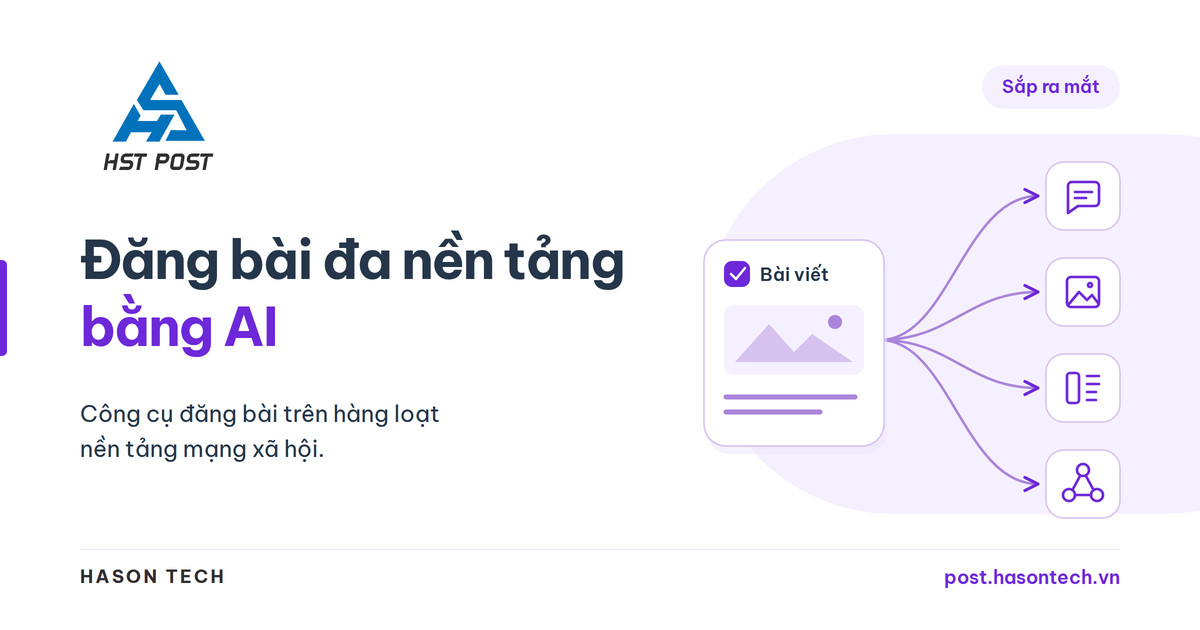
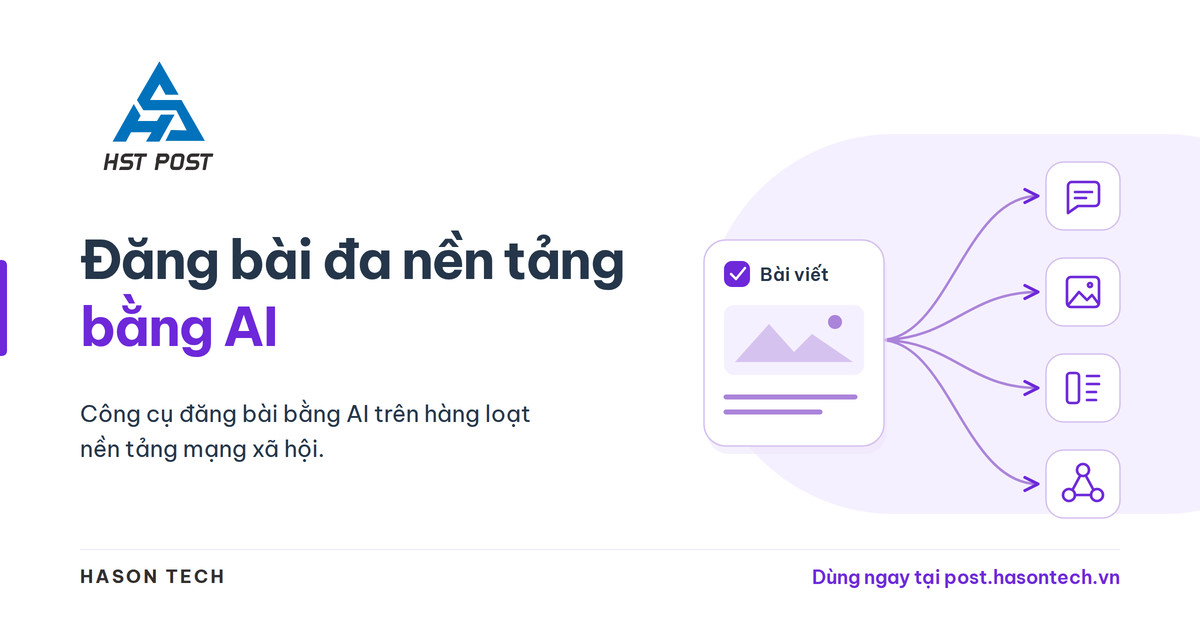
fix(brand): finalize HST Post launch social assets

Changed region(s): [[0.2158, 0.6333, 0.4625, 0.6937], [0.6783, 0.9048, 0.8017, 0.9349], [0.8325, 0.1206, 0.925, 0.1508]]

diff --git a/scripts/brand/hst-post-social.html b/scripts/brand/hst-post-social.html
@@ -14,7 +14,6 @@ body { font-family: BeVietnam, sans-serif; color: #25364a; background: #fff; }
 .wash { position: absolute; left: 704px; top: 134px; width: 650px; height: 380px; border-radius: 190px; background: $tint; }
 .edge { position: absolute; width: 7px; height: 96px; top: 260px; border-radius: 0 5px 5px 0; background: $accent; }
 .logo { position: absolute; left: 80px; top: 48px; width: 164px; height: 136px; object-fit: contain; }
-.badge { position: absolute; right: 80px; top: 65px; padding: 10px 20px; border-radius: 24px; font-size: 18px; line-height: 24px; font-weight: 600; color: $ink; background: $tint; }
 h1 { position: absolute; left: 80px; top: 226px; margin: 0; font-size: 54px; line-height: 1.24; letter-spacing: -1.8px; font-weight: 700; }
 h1 span { display: block; }
 h1 .emphasis { color: $ink; }
@@ -27,7 +26,6 @@ footer { position: absolute; left: 80px; right: 80px; bottom: 40px; display: fle
 .url { font-size: 19px; line-height: 26px; font-weight: 600; color: $ink; }
 .square, .square .art { height: 1200px; }
 .square .logo { top: 76px; width: 205px; height: 170px; }
-.square .badge { top: 102px; font-size: 22px; line-height: 30px; }
 .square h1 { top: 282px; font-size: 76px; line-height: 1.2; letter-spacing: -2.4px; }
 .square .subline { top: 495px; font-size: 29px; line-height: 42px; }
 .square .wash { left: 200px; top: 648px; width: 1040px; height: 370px; }
@@ -38,12 +36,11 @@ footer { position: absolute; left: 80px; right: 80px; bottom: 40px; display: fle
 .square .owner, .square .url { font-size: 24px; line-height: 32px; }
 </style>
 <body class="$layout">
-<article class="art" aria-label="HST Post — Đăng bài đa nền tảng bằng AI. Sắp ra mắt.">
+<article class="art" aria-label="HST Post — Đăng bài đa nền tảng bằng AI. Dùng ngay tại post.hasontech.vn.">
   <div class="wash"></div><div class="edge"></div>
   <img class="logo safe" src="$logo" alt="HST POST">
-  <span class="badge safe" data-background="$tint">Sắp ra mắt</span>
   <h1><span class="safe">Đăng bài đa nền tảng</span><span class="safe emphasis">bằng AI</span></h1>
-  <p class="subline"><span class="safe">Công cụ đăng bài trên hàng loạt</span><span class="safe">nền tảng mạng xã hội.</span></p>
+  <p class="subline"><span class="safe">Công cụ đăng bài bằng AI trên hàng loạt</span><span class="safe">nền tảng mạng xã hội.</span></p>
   <!-- Original generic glyphs: conversation, gallery, feed and community. -->
   <svg class="network safe" viewBox="0 0 416 356" xmlns="http://www.w3.org/2000/svg" role="img" aria-label="Một bài viết được phân phối tới nhiều nền tảng mạng xã hội">
     <defs>
@@ -84,7 +81,7 @@ footer { position: absolute; left: 80px; right: 80px; bottom: 40px; display: fle
     </g>
   </svg>
   <div class="divider"></div>
-  <footer><span class="owner safe">HASON TECH</span><span class="url safe">post.hasontech.vn</span></footer>
+  <footer><span class="owner safe">HASON TECH</span><span class="url safe">Dùng ngay tại post.hasontech.vn</span></footer>
 </article>
 </body>
 </html>

diff --git a/scripts/brand/render-hst-post-social.py b/scripts/brand/render-hst-post-social.py
@@ -61,7 +61,7 @@ def validate(page, height):
     for color in ("#322e2e", BRAND["accent"]):
         assert contrast(color, "#ffffff") >= 4.5
     for weight in (400, 600, 700):
-        assert page.evaluate("w => document.fonts.check(w + ' 23px BeVietnam', 'Đăng bài Sắp ra mắt')", weight)
+        assert page.evaluate("w => document.fonts.check(w + ' 23px BeVietnam', 'Đăng bài Dùng ngay nền tảng')", weight)
     assert page.evaluate("Array.from(document.images).every(i => i.complete && i.naturalWidth > 0)")
 
 
@@ -84,13 +84,13 @@ def preview(og):
     draw.rectangle((57, 598, 687, 686), fill="#f5f7f9")
     text(76, 611, "POST.HASONTECH.VN", 13, color="#526071")
     text(76, 637, "HST Post — Đăng bài đa nền tảng bằng AI", 21, "SemiBold")
-    text(76, 672, "Sắp ra mắt · Công cụ của HASON TECH", 15)
+    text(76, 672, "Công cụ đăng bài bằng AI của HASON TECH", 15)
     draw.rounded_rectangle((734, 193, 1400, 733), 24, fill=BRAND["tint"])
     draw.rounded_rectangle((752, 215, 1384, 709), 16, fill="white", outline="#c4d0dc", width=1)
     text(772, 231, "https://post.hasontech.vn", 20, color=BRAND["ink"])
     sheet.paste(thumb, (752, 279))
     text(772, 625, "HST Post — Đăng bài đa nền tảng bằng AI", 21, "SemiBold")
-    text(772, 662, "Sắp ra mắt · post.hasontech.vn", 17)
+    text(772, 662, "Dùng ngay tại post.hasontech.vn", 17)
     text(56, 761, "Ảnh ngang 1200 × 630 · Các biểu tượng trong ảnh là hình vẽ khái quát, không đại diện thương hiệu.", 17)
     return encode(sheet)
 

diff --git a/assets/hst-post/README.md b/assets/hst-post/README.md
@@ -1,6 +1,6 @@
 # HST Post social previews
 
-Standalone web assets for `https://post.hasontech.vn/`. Deploy this directory at
+Launch-ready web assets for `https://post.hasontech.vn/`. Deploy this directory at
 `/assets/hst-post/` on that host. These files are not bundled into the Office extension.
 
 | File | Dimensions | Purpose |
@@ -28,16 +28,16 @@ does not deploy or change the live site.
 ```html
 <meta charset="utf-8">
 <title>HST Post — Đăng bài đa nền tảng bằng AI</title>
-<meta name="description" content="Công cụ đăng bài bằng AI trên hàng loạt nền tảng mạng xã hội của HASON TECH. Sắp ra mắt.">
+<meta name="description" content="Công cụ đăng bài bằng AI trên hàng loạt nền tảng mạng xã hội của HASON TECH. Dùng ngay tại post.hasontech.vn.">
 <link rel="canonical" href="https://post.hasontech.vn/">
 
 <meta property="og:title" content="HST Post — Đăng bài đa nền tảng bằng AI">
-<meta property="og:description" content="Công cụ đăng bài bằng AI trên hàng loạt nền tảng mạng xã hội của HASON TECH. Sắp ra mắt.">
+<meta property="og:description" content="Công cụ đăng bài bằng AI trên hàng loạt nền tảng mạng xã hội của HASON TECH. Dùng ngay tại post.hasontech.vn.">
 <meta property="og:image" content="https://post.hasontech.vn/assets/hst-post/og-hst-post.jpg">
 <meta property="og:image:type" content="image/jpeg">
 <meta property="og:image:width" content="1200">
 <meta property="og:image:height" content="630">
-<meta property="og:image:alt" content="HST POST — Đăng bài đa nền tảng bằng AI. Một bài viết kết nối tới nhiều nền tảng. Sắp ra mắt. HASON TECH — post.hasontech.vn.">
+<meta property="og:image:alt" content="HST POST — Đăng bài đa nền tảng bằng AI. Một bài viết kết nối tới nhiều nền tảng. HASON TECH. Dùng ngay tại post.hasontech.vn.">
 <meta property="og:type" content="website">
 <meta property="og:url" content="https://post.hasontech.vn/">
 <meta property="og:site_name" content="HST Post">
@@ -45,9 +45,9 @@ does not deploy or change the live site.
 
 <meta name="twitter:card" content="summary_large_image">
 <meta name="twitter:title" content="HST Post — Đăng bài đa nền tảng bằng AI">
-<meta name="twitter:description" content="Công cụ đăng bài bằng AI trên hàng loạt nền tảng mạng xã hội của HASON TECH. Sắp ra mắt.">
+<meta name="twitter:description" content="Công cụ đăng bài bằng AI trên hàng loạt nền tảng mạng xã hội của HASON TECH. Dùng ngay tại post.hasontech.vn.">
 <meta name="twitter:image" content="https://post.hasontech.vn/assets/hst-post/og-hst-post.jpg">
-<meta name="twitter:image:alt" content="HST POST — Đăng bài đa nền tảng bằng AI. Một bài viết kết nối tới nhiều nền tảng. Sắp ra mắt. HASON TECH — post.hasontech.vn.">
+<meta name="twitter:image:alt" content="HST POST — Đăng bài đa nền tảng bằng AI. Một bài viết kết nối tới nhiều nền tảng. HASON TECH. Dùng ngay tại post.hasontech.vn.">
 
 <link rel="icon" type="image/svg+xml" sizes="any" href="https://post.hasontech.vn/assets/hst-post/favicon.svg">
 <link rel="icon" type="image/png" sizes="32x32" href="https://post.hasontech.vn/assets/hst-post/favicon-32.png">
@@ -101,7 +101,8 @@ All landscape text and the entire logo box stay inside `x=60…1140`, `y=32…59
 gallery, feed and community drawings, with no other companies' marks or implied integrations.
 
 Text contrast against its solid background is 12.32:1 for slate body copy, **7.10:1**
-for violet `#6d28d9` headline/footer text, **6.36:1** for the badge on `#f5f0ff`, and
+for violet `#6d28d9` headline/footer text, and
 **13.41:1** for the dark `#322e2e` company name and logo lettering. No text sits on a
 gradient. The renderer reads the same HST Post palette as the banner from `brands.json`.
-The copy describes the product and its coming-soon status without invented usage claims.
+The launch copy describes the product and invites readers to use `post.hasontech.vn`,
+without invented usage claims.
